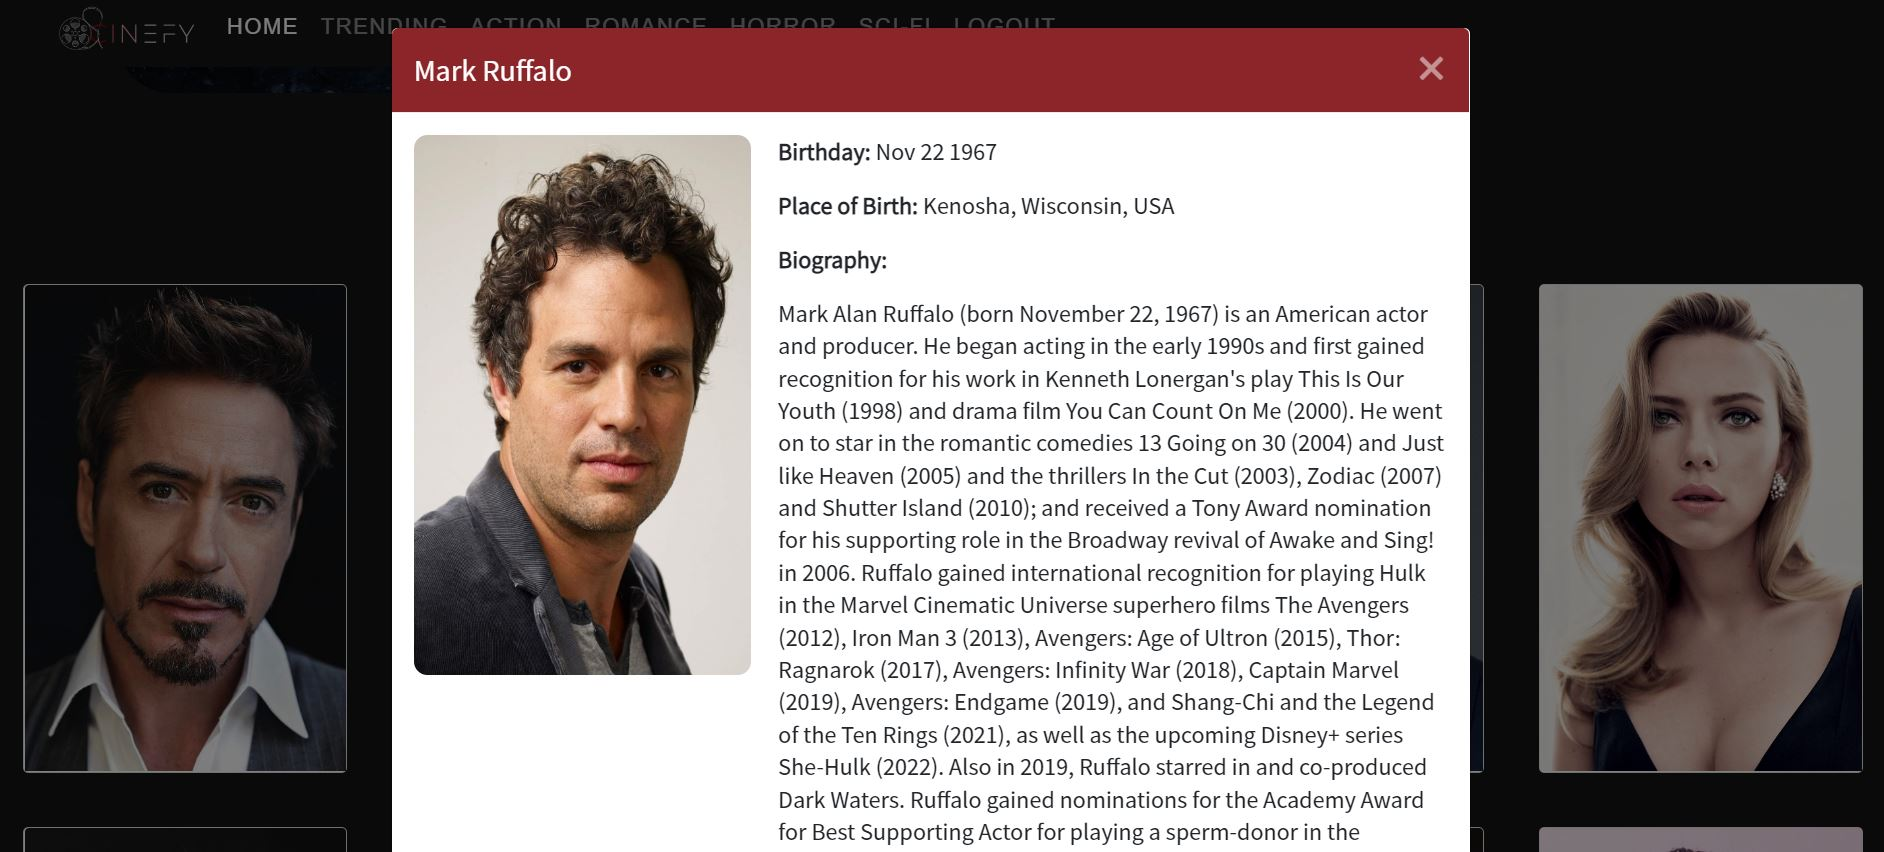
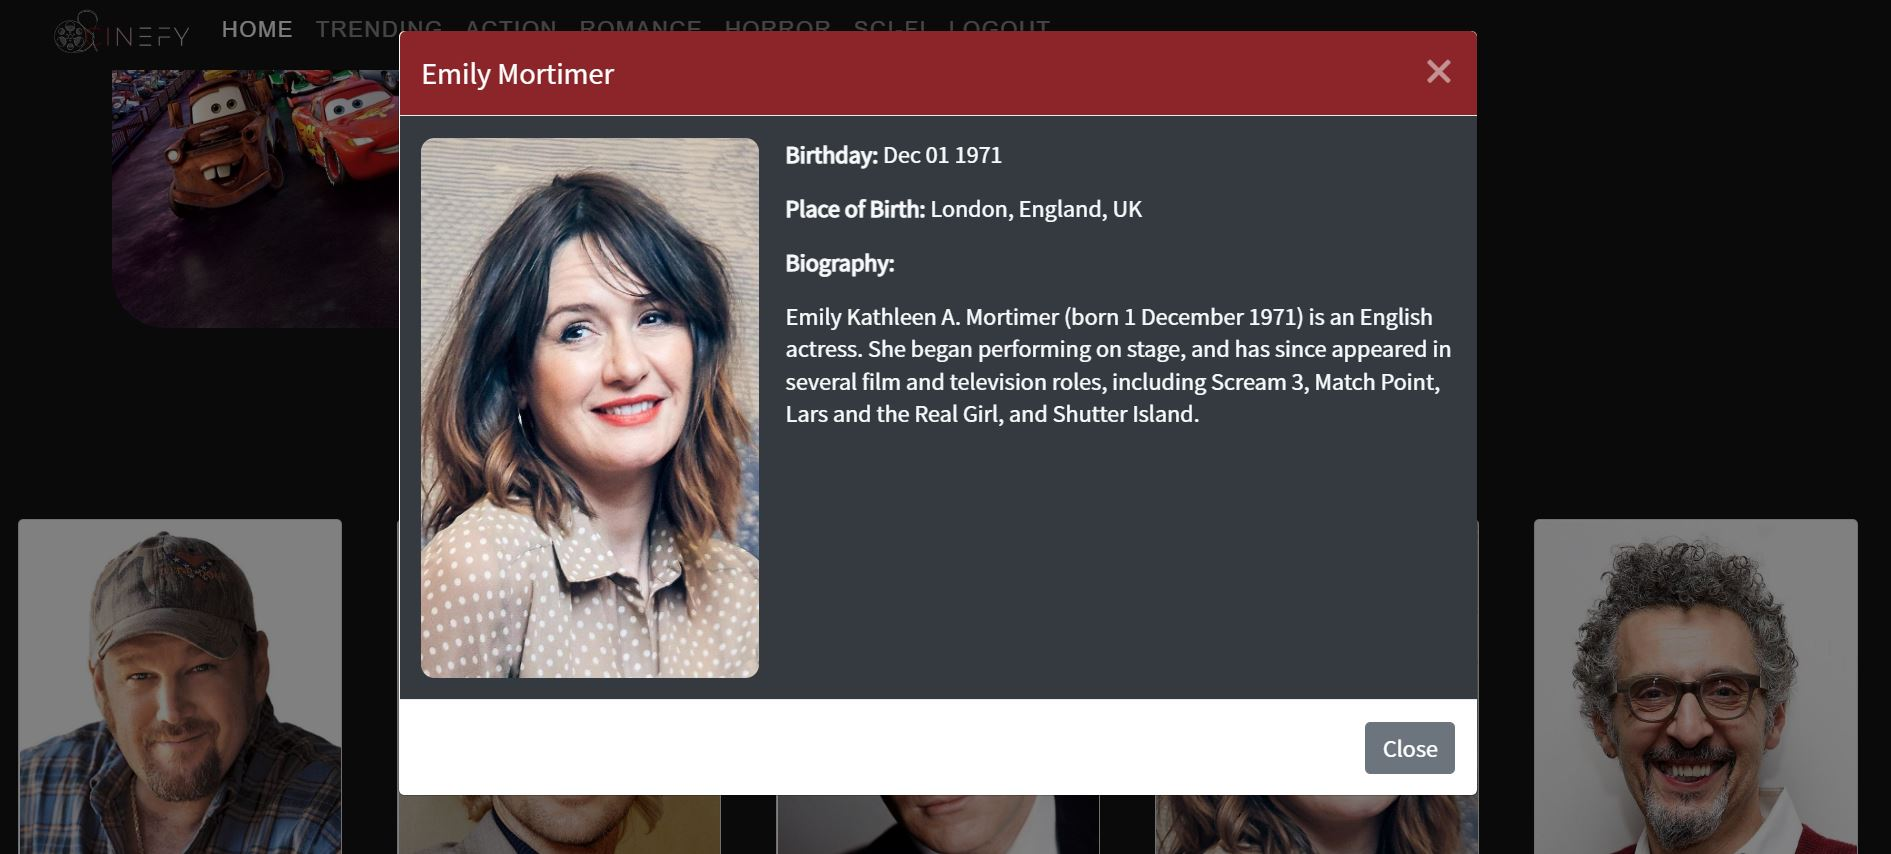
change style

diff --git a/templates/recommend.html b/templates/recommend.html
@@ -93,7 +93,7 @@
   {% for name, details in cast_details.items() if not cast_details.hidden %}
   <div class="modal fade" id="{{details[0]}}" tabindex="-1" role="dialog" aria-labelledby="exampleModalLabel3"
     aria-hidden="true">
-    <div class="modal-dialog modal-lg" role="document">
+    <div class="modal-dialog modal-lg" role="document" style="border-radius: 40px;">
       <div class="modal-content">
         <div class="modal-header" style="background-color: #8b252a;color: white;">
           <h5 class="modal-title" id="exampleModalLabel3">{{name}}</h5>
@@ -102,7 +102,7 @@
           </button>
         </div>
 
-        <div class="modal-body">
+        <div class="modal-body bg-dark text-light">
           <img class="profile-pic" src="{{details[1]}}" alt="{{name}} - profile"
             style="width: 250px;height:400px;border-radius: 10px;" />
           <div style="margin-left: 20px">
@@ -133,7 +133,7 @@
 
   <div class="movie-content margin-top: 100px;">
     {% for name, details in casts.items() if not casts.hidden %}
-    <div class="castcard card" style="width: 15rem;" title="Click to know more about {{name}}" data-toggle="modal"
+    <div class="castcard card " style="width: 15rem;" title="Click to know more about {{name}}" data-toggle="modal"
       data-target="#{{details[0]}}">
       <div class="imghvr">
         <img class="card-img-top cast-img" id="{{details[0]}}" height="360" width="240" alt="{{name}} - profile"
